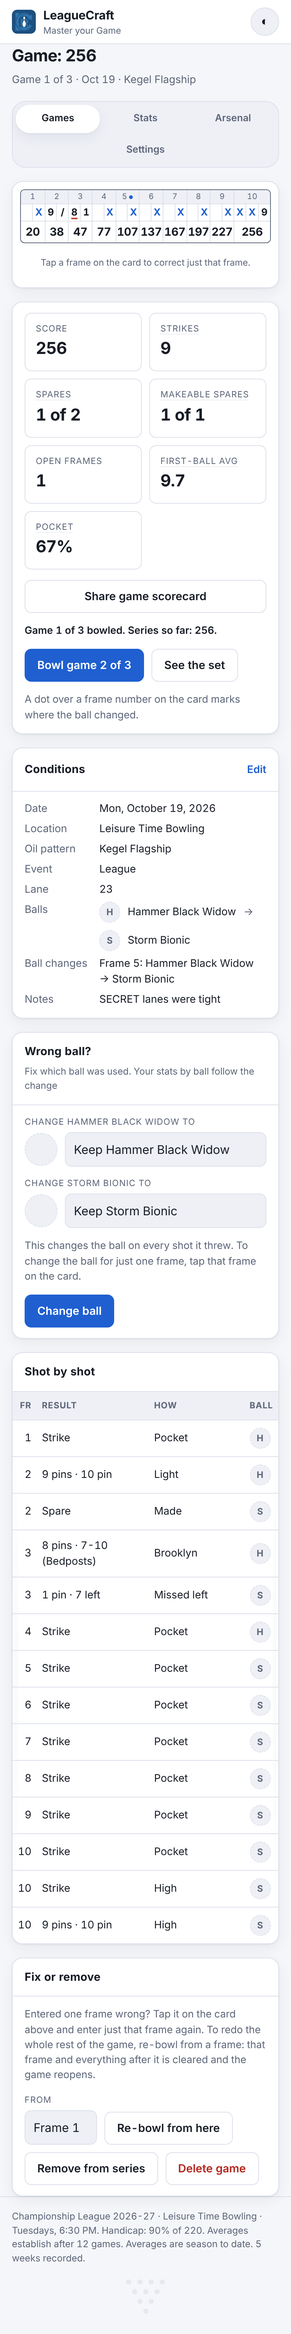
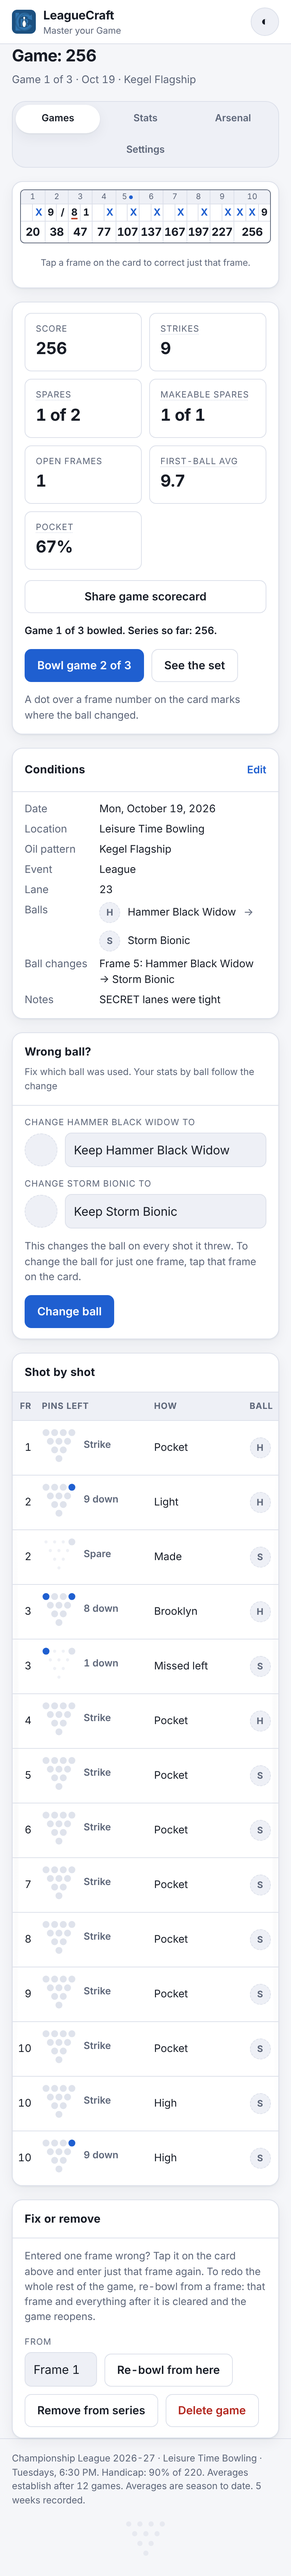
Shot by shot shows the pins left on a deck
Each shot is drawn on a small pin deck: pins still standing in blue, pins
this ball knocked down pale, pins already down fainter, a dashed ring for a
pin of unknown identity (imports), with Strike / Spare / Miss / N down beside it.

Claude-Session: https://claude.ai/code/session_01D1oqoGysNXNf16kfEsCaSj

diff --git a/js/shots-ui.js b/js/shots-ui.js
@@ -785,6 +785,44 @@
 
   /* ---------- pin deck ---------- */
 
+  /* One shot drawn on the deck: pins still standing are filled, pins this ball
+     knocked down are rings, pins already down before it are faint. A shot whose
+     pins are only known by count (from an import) shows them dashed. */
+  function shotDeck(c) {
+    var NS = 'http://www.w3.org/2000/svg';
+    var gap = 11, r = 4.4;
+    var standing = S.cleanPins(c.standing), before = c.before || [];
+    var label = S.describeShot({ fresh: c.fresh, before: before }, standing);
+    var svg = document.createElementNS(NS, 'svg');
+    svg.setAttribute('class', 'sh-leavedeck sh-shotdeck');
+    svg.setAttribute('viewBox', '0 0 ' + (gap * 3 + r * 2 + 2) + ' ' + (gap * 3 + r * 2 + 2));
+    svg.setAttribute('role', 'img');
+    svg.setAttribute('aria-label', label + (c.shot && c.shot.approx ? ' (which pins is not known)' : ''));
+    var title = document.createElementNS(NS, 'title');
+    title.textContent = label;
+    svg.appendChild(title);
+    S.DECK.forEach(function (row, ri) {
+      row.forEach(function (pin, ci) {
+        var dot = document.createElementNS(NS, 'circle');
+        dot.setAttribute('cx', String(1 + r + (ci + (4 - row.length) / 2) * gap));
+        dot.setAttribute('cy', String(1 + r + ri * gap));
+        var cls = before.indexOf(pin) === -1 ? 'ld-gone' : standing.indexOf(pin) !== -1 ? (c.shot && c.shot.approx ? 'ld-guess' : 'ld-up') : 'ld-hit';
+        dot.setAttribute('r', String(cls === 'ld-gone' ? 2 : r));
+        dot.setAttribute('class', cls);
+        svg.appendChild(dot);
+      });
+    });
+    return svg;
+  }
+
+  /* "Strike", "Spare" or how many fell, in a word beside the picture. */
+  function shotNote(c) {
+    var standing = S.cleanPins(c.standing), before = c.before || [];
+    if (!standing.length) return c.fresh ? 'Strike' : 'Spare';
+    var down = before.length - standing.length;
+    return down === 0 ? 'Miss' : down + ' down';
+  }
+
   /* A small picture of a leave: the pins left standing are filled, the rest are
      faint. `key` is the leave as "7-10"; the name goes in the tooltip and label. */
   function leaveDeck(key, label) {
@@ -1359,9 +1397,11 @@
     });
     var columns = [
       { key: 'f', label: 'Fr', sortable: false, render: function (r) { return String(r.frame); } },
-      { key: 'r', label: 'Result', sortable: false, className: 'col-name', render: function (r) {
+      { key: 'r', label: 'Pins left', sortable: false, className: 'col-name', render: function (r) {
         var c = r.c;
-        return S.describeShot({ fresh: c.fresh, before: c.before }, c.standing);
+        return el('span', { class: 'sh-shotcell', title: S.describeShot({ fresh: c.fresh, before: c.before }, c.standing) }, [
+          shotDeck(c), el('span', { class: 'sh-shotnote', text: shotNote(c) }),
+        ]);
       } },
       { key: 'h', label: 'How', sortable: false, className: 'col-name', render: function (r) {
         var c = r.c;

diff --git a/css/styles.css b/css/styles.css
@@ -1719,3 +1719,11 @@ i.chart-swatch.ml-s4, circle.ml-swatch.ml-s4 { background: var(--s4); fill: var(
 .sh-code { margin: 0; padding: 12px; overflow-x: auto; font-size: 12px; line-height: 1.45; background: var(--surface-2); border-radius: var(--radius-sm); }
 .sh-inline summary { cursor: pointer; font-size: 14px; font-weight: 600; color: var(--accent); padding: 4px 0; }
 .sh-inline.sh-details { border: 0; }
+
+/* shot by shot: the pins that were left, drawn */
+.sh-shotcell { display: inline-flex; align-items: center; gap: 10px; }
+.sh-shotdeck { width: 46px; height: 46px; flex: none; }
+.sh-shotnote { font-size: 13px; font-weight: 600; color: var(--text-dim); white-space: nowrap; }
+.sh-shotdeck .ld-hit { fill: var(--border); stroke: none; opacity: .9; }
+.sh-shotdeck .ld-gone { fill: var(--border); opacity: .45; }
+.sh-shotdeck .ld-guess { fill: none; stroke: var(--accent); stroke-width: 1.6; stroke-dasharray: 2 1.6; }
